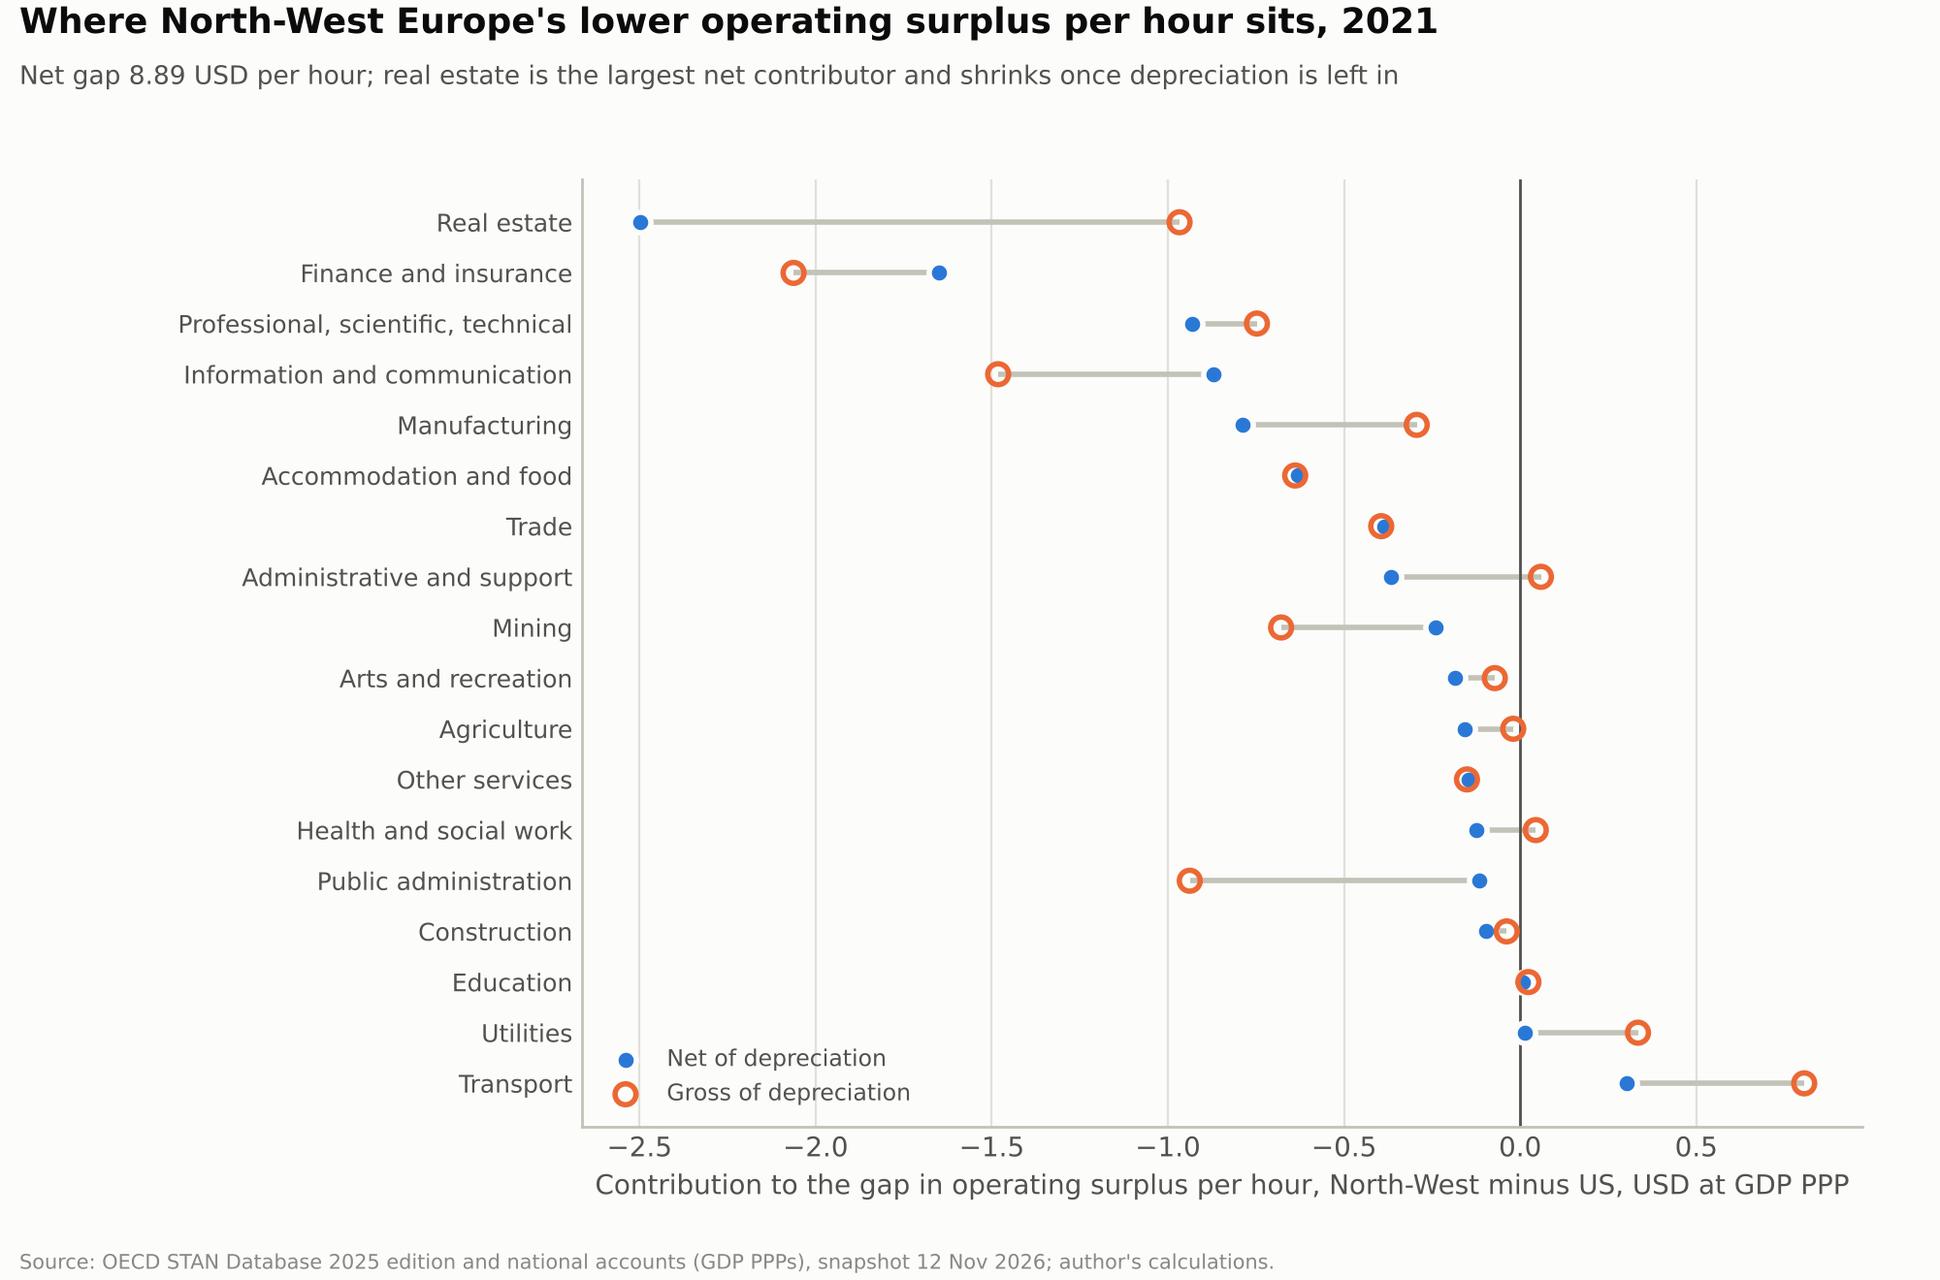
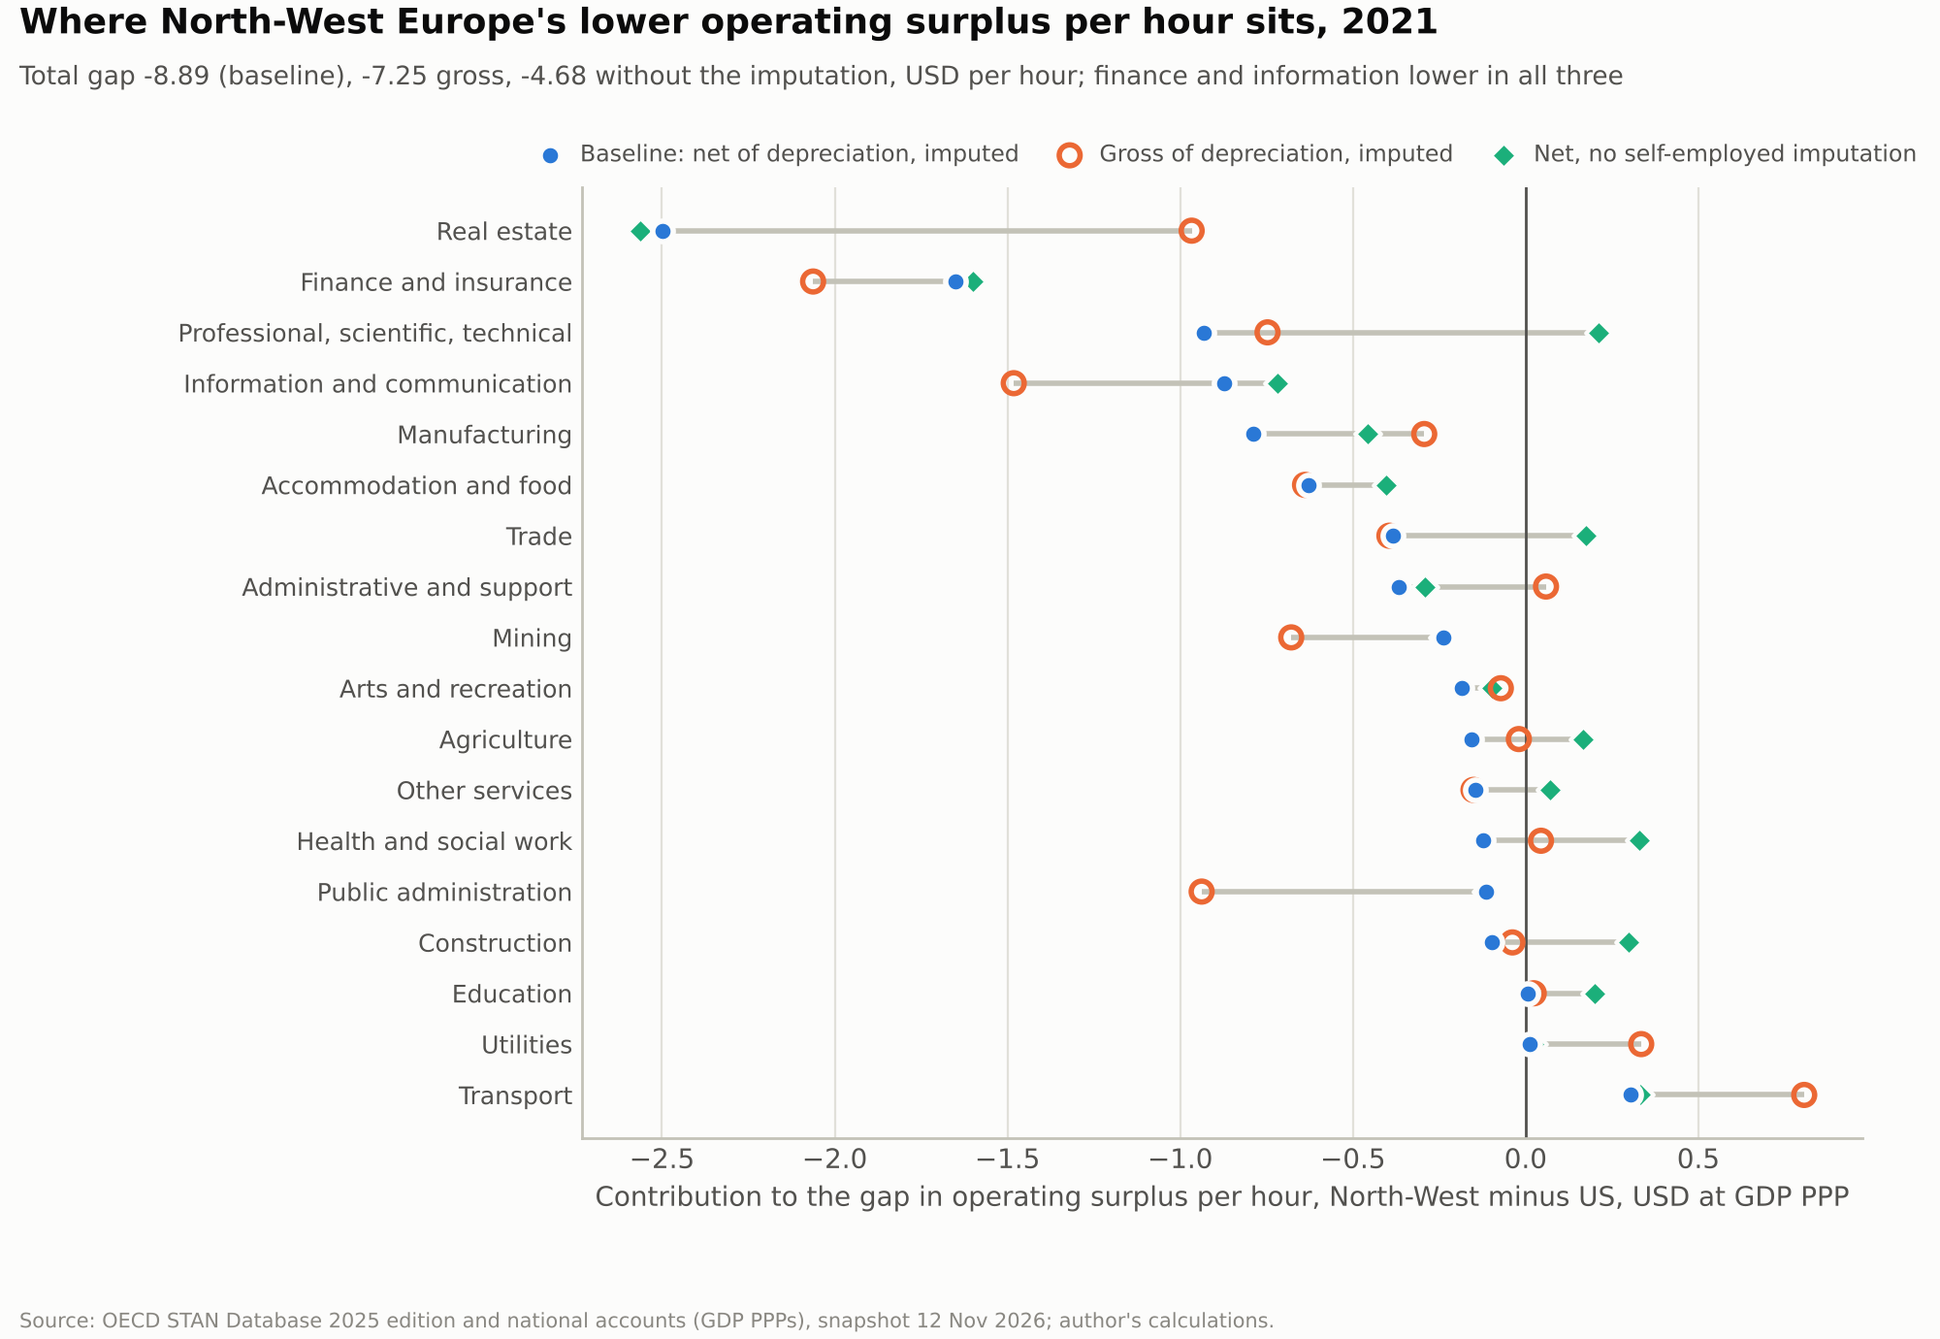
eu-us-surplus-by-industry: four accountings (net/gross, with/without the self-employment imputation)
The imputation moves 4.21 USD per hour of the gap and decides the sign of professional services, so every
industry contribution is now reported under four accountings (variants_*.csv), with self-employed hours
shares and hours per person in the summary. Figure 1 shows three of the four; a test checks that the
variants reconcile by the depreciation and imputation gaps.

diff --git a/eu-us-surplus-by-industry/analysis.py b/eu-us-surplus-by-industry/analysis.py
@@ -59,12 +59,13 @@ def col(frame: pd.DataFrame, name: str) -> pd.Series:
     return frame[name] if name in frame.columns else pd.Series(np.nan, index=frame.index)
 
 
-def accounts(c: str, y: int, acts: list[str], gross: bool = False) -> pd.DataFrame:
+def accounts(c: str, y: int, acts: list[str], gross: bool = False, impute: bool = True) -> pd.DataFrame:
     """Income-side accounts by activity, converted to US dollars at GDP PPP (millions; hours in millions).
 
     LC  = compensation of employees + imputed labour income of the self-employed (employee pay per hour)
     CFC = consumption of fixed capital
-    NR  = net operating surplus and mixed income minus the imputation (gross variant: before CFC)
+    NR  = net operating surplus and mixed income minus the imputation (gross variant: before CFC;
+          impute=False: mixed income left whole in the remainder)
     FCVA = value added at factor cost = compensation of employees + gross operating surplus and mixed income
     """
     X = P.loc[(c, y)].reindex(acts)
@@ -81,6 +82,8 @@ def accounts(c: str, y: int, acts: list[str], gross: bool = False) -> pd.DataFra
     nos = nos.where(gos.notna() | d1.isna(), 0.0)
     gos = gos.where(gos.notna() | d1.isna(), 0.0)
     imp = (d1 / sal_h * self_h).fillna(0)
+    if not impute:
+        imp = imp * 0.0
     out = pd.DataFrame({"LC": d1 + imp, "CFC": cfc, "NR": (gos if gross else nos) - imp, "FCVA": d1 + gos,
                         "H": sal_h + self_h.fillna(0), "IMP": imp, "D1": d1, "GOS": gos})
     money = ["LC", "CFC", "NR", "FCVA", "IMP", "D1", "GOS"]
@@ -88,10 +91,18 @@ def accounts(c: str, y: int, acts: list[str], gross: bool = False) -> pd.DataFra
     return out
 
 
-def group(y: int, acts: list[str], gross: bool = False) -> tuple[pd.DataFrame, pd.DataFrame]:
-    us = accounts("USA", y, acts, gross)
-    nw = sum(accounts(c, y, acts, gross).fillna(0) for c in NW)
+def group(y: int, acts: list[str], gross: bool = False, impute: bool = True) -> tuple[pd.DataFrame, pd.DataFrame]:
+    us = accounts("USA", y, acts, gross, impute)
+    nw = sum(accounts(c, y, acts, gross, impute).fillna(0) for c in NW)
     return nw, us
+
+
+def self_employed_hours(c: str, y: int, acts: list[str]) -> tuple[pd.Series, pd.Series]:
+    """Hours of the self-employed and of employees by activity (millions)."""
+    X = P.loc[(c, y)].reindex(acts)
+    sal_h, sal_ps = col(X, "SAL_H"), col(X, "SAL_PS")
+    self_h = col(X, "SELF_PS") * sal_h / sal_ps if c == "USA" else col(X, "EMP_H") - sal_h
+    return self_h.clip(lower=0).fillna(0), sal_h.fillna(0)
 
 
 def total_hours(c: str, y: int) -> float:
@@ -120,6 +131,12 @@ def main() -> None:
     say("Total hours worked, millions, 2021: NW (8 countries); US", f"{sum(total_hours(c, 2021) for c in NW):,.0f}; "
         f"{total_hours('USA', 2021):,.0f}")
     say("GDP PPP 2021, national currency per USD: " + "; ".join(NW), "; ".join(f"{PPP.loc[2021, c]:.3f}" for c in NW))
+    parts = []
+    for c in NW + ["USA"]:
+        X = P.loc[(c, 2021, "_T")]
+        parts.append(f"{c} {1000 * (X['EMP_H'] - X['SAL_H']) / (X['EMP_PS'] - X['SAL_PS']):,.0f}; "
+                     f"{1000 * X['SAL_H'] / X['SAL_PS']:,.0f}")
+    say("Hours per person per year, total economy 2021, self-employed; employees", " | ".join(parts))
 
     # ------------------------------------------------------------------ per-hour accounts
     section("Income side of an hour of factor-cost value added, USD at GDP PPP (sum of 19 sections / total hours)")
@@ -269,10 +286,50 @@ def main() -> None:
         say(f"{y} gross remainder per hour: NW; US; gap", f"{nw['NR'].sum() / hn:.1f}; {us['NR'].sum() / hu:.1f}; {g.sum():.2f}")
         say(f"{y} shares of the gross gap: J+K+M+N; real estate L; manufacturing C",
             f"{g[GROUP_JKMN].sum() / g.sum():.2f}; {g['L'] / g.sum():.2f}; {g['C'] / g.sum():.2f}")
-        pd.DataFrame({"gross_contribution": g}).to_csv(RES / f"gross_contributions_{y}.csv", float_format="%.4f")
         cf = nw["CFC"] / hn - us["CFC"] / hu
-        say(f"{y} depreciation per hour, gap NW - US: total; real estate L; manufacturing C",
-            f"{cf.sum():.2f}; {cf['L']:.2f}; {cf['C']:.2f}")
+        say(f"{y} depreciation per hour, gap NW - US: total; real estate L; manufacturing C; public administration O; J; K",
+            f"{cf.sum():.2f}; {cf['L']:.2f}; {cf['C']:.2f}; {cf['O']:.2f}; {cf['J']:.2f}; {cf['K']:.2f}")
+
+    # ------------------------------------------------------------------ four accountings
+    section("Four accountings of the gap: net or gross of depreciation, with or without the self-employment imputation")
+    for y in YEARS:
+        hn, hu = sum(total_hours(c, y) for c in NW), total_hours("USA", y)
+        nw, us = group(y, SECTIONS)
+        s_nw = sum(self_employed_hours(c, y, SECTIONS)[0] for c in NW)
+        e_nw = sum(self_employed_hours(c, y, SECTIONS)[1] for c in NW)
+        s_us, e_us = self_employed_hours("USA", y, SECTIONS)
+        say(f"{y} self-employed share of hours: NW; US | professional services M: NW; US",
+            f"{s_nw.sum() / (s_nw.sum() + e_nw.sum()):.3f}; {s_us.sum() / (s_us.sum() + e_us.sum()):.3f} | "
+            f"{s_nw['M'] / (s_nw['M'] + e_nw['M']):.3f}; {s_us['M'] / (s_us['M'] + e_us['M']):.3f}")
+        say(f"{y} imputed labour income of the self-employed per hour, USD: NW; US; gap",
+            f"{nw['IMP'].sum() / hn:.2f}; {us['IMP'].sum() / hu:.2f}; {nw['IMP'].sum() / hn - us['IMP'].sum() / hu:.2f}")
+        cols = {}
+        for gross in (False, True):
+            for impute in (True, False):
+                a_n, a_u = group(y, SECTIONS, gross, impute)
+                key = f"{'gross' if gross else 'net'}_{'imputed' if impute else 'unimputed'}"
+                cols[key] = a_n["NR"] / hn - a_u["NR"] / hu
+        v = pd.DataFrame(cols)
+        v.insert(0, "name", [NAMES[x] for x in SECTIONS])
+        v.to_csv(RES / f"variants_{y}.csv", float_format="%.4f")
+        for key in ["net_imputed", "net_unimputed", "gross_imputed", "gross_unimputed"]:
+            g = v[key]
+            G = g.sum()
+            say(f"{y} {key}: gap; shares J+K+M+N; J+K; L; C; all other | USD per hour J; K; M; N; L; C",
+                f"{G:.2f}; {g[GROUP_JKMN].sum() / G:.2f}; {g[['J', 'K']].sum() / G:.2f}; {g['L'] / G:.2f}; "
+                f"{g['C'] / G:.2f}; {1 - g[GROUP_JKMN + ['L', 'C']].sum() / G:.2f} | {g['J']:.2f}; {g['K']:.2f}; "
+                f"{g['M']:.2f}; {g['N']:.2f}; {g['L']:.2f}; {g['C']:.2f}")
+    for c in NW:
+        s_c, e_c = self_employed_hours(c, 2021, SECTIONS)
+        LINES.append(f"2021 self-employed share of hours {c}: {s_c.sum() / (s_c.sum() + e_c.sum()):.3f}")
+    nw0, us0 = group(2021, SECTIONS, impute=False)
+    ps_n, ps_u = nw0["NR"] / nw0["FCVA"], us0["NR"] / us0["FCVA"]
+    market = [x for x in SECTIONS if x not in ("O", "P", "Q", "T")]
+    say("2021 profit share without the imputation: aggregate NW; US",
+        f"{nw0['NR'].sum() / nw0['FCVA'].sum():.3f}; {us0['NR'].sum() / us0['FCVA'].sum():.3f}")
+    say("2021 market sections where the NW profit share without the imputation is lower than the US",
+        f"{sum(ps_n[market] < ps_u[market])} of 15 ({', '.join(x for x in market if ps_n[x] < ps_u[x])})")
+    say("2021 profit share without the imputation, M: NW; US", f"{ps_n['M']:.3f}; {ps_u['M']:.3f}")
 
     (RES / "analysis_summary.txt").write_text("\n".join(LINES).strip() + "\n", encoding="utf-8")
     print("\n".join(LINES))

diff --git a/eu-us-surplus-by-industry/figures.py b/eu-us-surplus-by-industry/figures.py
@@ -55,27 +55,32 @@ def finish(fig, name: str, title: str, subtitle: str, source: str = SOURCE) -> N
 
 
 def fig1() -> None:
-    t = pd.read_csv(RES / "contributions_2021.csv", index_col=0)
-    g = pd.read_csv(RES / "gross_contributions_2021.csv", index_col=0)["gross_contribution"]
+    t = pd.read_csv(RES / "variants_2021.csv", index_col=0)
+    keys = ["net_imputed", "gross_imputed", "net_unimputed"]
+    totals = t[keys].sum()
     t = t.drop(index=[s for s in ("T",) if s in t.index])
-    t["gross"] = g.reindex(t.index)
-    t = t.sort_values("contribution", ascending=False).reset_index()
-    fig, ax = plt.subplots(figsize=(10, 6.6))
-    fig.subplots_adjust(left=0.3, right=0.96, top=0.86, bottom=0.12)
+    t = t.sort_values("net_imputed", ascending=False).reset_index()
+    fig, ax = plt.subplots(figsize=(10, 6.9))
+    fig.subplots_adjust(left=0.3, right=0.96, top=0.86, bottom=0.15)
     y = np.arange(len(t))
     for i, r in t.iterrows():
-        ax.hlines(i, min(r.contribution, r.gross), max(r.contribution, r.gross), color=BASE, linewidth=2)
-    ax.scatter(t.contribution, y, s=58, color=SLOTS[0], edgecolor=SURFACE, linewidth=2, zorder=3,
-               label="Net of depreciation")
-    ax.scatter(t.gross, y, s=60, facecolor="none", edgecolor=SLOTS[1], linewidth=2, zorder=4,
-               label="Gross of depreciation")
+        ax.hlines(i, min(r[k] for k in keys), max(r[k] for k in keys), color=BASE, linewidth=2)
+    ax.scatter(t.net_unimputed, y, s=46, marker="D", color=SLOTS[2], edgecolor=SURFACE, linewidth=1.5, zorder=3,
+               label="Net, no self-employed imputation")
+    ax.scatter(t.gross_imputed, y, s=60, facecolor="none", edgecolor=SLOTS[1], linewidth=2, zorder=4,
+               label="Gross of depreciation, imputed")
+    ax.scatter(t.net_imputed, y, s=58, color=SLOTS[0], edgecolor=SURFACE, linewidth=2, zorder=5,
+               label="Baseline: net of depreciation, imputed")
     ax.axvline(0, color=INK2, linewidth=1)
     ax.set_yticks(y, t.name, fontsize=9)
     ax.set_xlabel("Contribution to the gap in operating surplus per hour, North-West minus US, USD at GDP PPP")
-    ax.legend(loc="lower left", fontsize=8.5)
+    handles, labels = ax.get_legend_handles_labels()
+    ax.legend(handles[::-1], labels[::-1], loc="lower center", bbox_to_anchor=(0.5, 1.0), ncol=3, fontsize=8.5,
+              frameon=False, handletextpad=0.3, columnspacing=1.2)
     tidy(ax, "x")
     finish(fig, "fig1_gap_by_industry_2021", "Where North-West Europe's lower operating surplus per hour sits, 2021",
-           "Net gap 8.89 USD per hour; real estate is the largest net contributor and shrinks once depreciation is left in")
+           f"Total gap {totals.net_imputed:.2f} (baseline), {totals.gross_imputed:.2f} gross, "
+           f"{totals.net_unimputed:.2f} without the imputation, USD per hour; finance and information lower in all three")
 
 
 def fig2() -> None:

diff --git a/eu-us-surplus-by-industry/tests/test_identities.py b/eu-us-surplus-by-industry/tests/test_identities.py
@@ -54,3 +54,18 @@ def test_subindustries_add_up_for_services() -> None:
 def test_country_contributions_add_up() -> None:
     c = pd.read_csv(RES / "countries_2021.csv", index_col=0)
     assert np.allclose(c[["L", "K", "J_M_N", "C", "other"]].sum(axis=1), c.gap, atol=1e-4)
+
+
+def test_four_accountings_reconcile() -> None:
+    for y in analysis.YEARS:
+        v = pd.read_csv(RES / f"variants_{y}.csv", index_col=0)
+        hn = sum(analysis.total_hours(c, y) for c in analysis.NW)
+        hu = analysis.total_hours("USA", y)
+        nw, us = analysis.group(y, analysis.SECTIONS)
+        imp_gap = nw["IMP"] / hn - us["IMP"] / hu
+        cfc_gap = nw["CFC"].fillna(0) / hn - us["CFC"].fillna(0) / hu
+        assert np.allclose(v.net_unimputed - v.net_imputed, imp_gap.reindex(v.index), atol=1e-3)
+        assert np.allclose(v.gross_imputed - v.net_imputed, cfc_gap.reindex(v.index), atol=0.02)
+        assert np.allclose(v.gross_unimputed - v.gross_imputed, imp_gap.reindex(v.index), atol=1e-3)
+        t = pd.read_csv(RES / f"contributions_{y}.csv", index_col=0)
+        assert np.allclose(v.net_imputed, t.contribution, atol=1e-3)

diff --git a/eu-us-surplus-by-industry/README.md b/eu-us-surplus-by-industry/README.md
@@ -2,7 +2,7 @@
 
 Computational companion to a follow-up of the Medium series *Europe's Low-Wage Path, Measured*. Part 1 of the series found that an hour of work in eight North-West European countries produces slightly less value added than an hour in the United States, pays labour slightly more and leaves about half the net operating surplus. It stated a conjecture about where that missing surplus sits: in information and communication, finance and professional services, with manufacturing contributing little or the opposite. This repository tests it.
 
-The method splits the gap in net operating surplus per hour of the whole economy into the contributions of the 19 ISIC Rev. 4 sections, splits each contribution into an industry-structure part and a within-industry margin part, repeats the exercise on a gross basis (before depreciation), computes currency-free profit shares by industry, opens up information and communication, finance, professional services, manufacturing and real estate one level down, and repeats the industry split for each of the eight countries.
+The method splits the gap in net operating surplus per hour of the whole economy into the contributions of the 19 ISIC Rev. 4 sections, splits each contribution into an industry-structure part and a within-industry margin part, repeats the exercise under four accountings (net or gross of depreciation, with or without an imputed wage for the self-employed), computes currency-free profit shares by industry, opens up information and communication, finance, professional services, manufacturing and real estate one level down, and repeats the industry split for each of the eight countries.
 
 ## Run
 
@@ -38,21 +38,22 @@ OECD data are reused under the OECD terms and conditions; they are not relicense
 - **Contribution of industry i to the gap** = NR_i(NW) ÷ total hours(NW) − NR_i(US) ÷ total hours(US), in US dollars per hour worked in the whole economy. The 19 contributions add up to the gap.
 - **Structure and margin.** With a_i the industry's hours as a share of total hours and r_i its net remainder per hour worked in the industry, the contribution a_i(NW) r_i(NW) − a_i(US) r_i(US) = (a_NW − a_US)(r_NW + r_US)/2 [structure] + (r_NW − r_US)(a_NW + a_US)/2 [margin]. The split is exact.
 - **Profit share** = NR ÷ FCVA, within an industry or for the economy. It needs no exchange rate. The gap in the aggregate share is split into within-industry and between-industry parts with average value-added weights and average shares.
-- **Gross basis** = the same decomposition with depreciation left in (gross operating surplus and mixed income − the imputation).
+- **Four accountings.** The baseline is net of depreciation and with the imputation, as in Part 1. The other three leave depreciation in (gross operating surplus and mixed income − the imputation), leave mixed income whole (net operating surplus and mixed income, no imputation), or both. Moving from one to another changes each industry's contribution by exactly its gap in depreciation per hour or in imputed income per hour; the tests check this.
 - **Sub-industries** (publishing and broadcasting, telecoms, IT services; banks, insurance, auxiliary finance; legal-accounting-consulting, R&D, advertising; pharmaceuticals, electronics, motor vehicles) are shown as net operating surplus and mixed income per hour of the whole economy, *without* the self-employment imputation, because US hours for the finance sub-industries are not usable in STAN 2025.
 - **Owner-occupied housing** is the imputed rent that owner-occupiers pay themselves (`L68A`). It is compared on a gross basis, because depreciation is not published for it separately. Germany publishes value added but not gross surplus for `L68A`; its value added is used, which overstates the surplus by the small compensation and taxes in the industry.
 
 ## Results files
 
 - `contributions_2019.csv`, `contributions_2021.csv`: per section, the contribution, its share of the gap, the structure and margin parts, hours shares, net remainder per hour within the industry, profit shares and value-added shares, NW and US.
-- `gross_contributions_2019.csv`, `gross_contributions_2021.csv`: the gross-basis contributions.
+- `variants_2019.csv`, `variants_2021.csv`: the contribution of each section under the four accountings.
 - `owner_occupied_housing_2021.csv`, `subindustries_2021.csv`, `countries_2021.csv`: the inputs to figures 3 and 4.
 
 ## Caveats
 
 - GDP PPPs convert the whole economy at one rate. An industry whose prices are relatively higher in one economy (finance, telecoms, housing) gets a larger share of value added there at the same volume of output. The profit shares in `contributions_*.csv` avoid the conversion and are the check on that.
-- The imputation assumes a self-employed hour earns what an employee hour earns in the same industry. Where the self-employed are numerous and earn less than employees (professional services in some countries, agriculture), it moves income from the remainder into labour and can make the remainder negative.
-- The US self-employed hours assume the self-employed work as many hours per person as employees.
+- The imputation assumes a self-employed hour earns what an employee hour earns in the same industry. It is large: the self-employed work 14.7% of hours in the North-West against 6.4% in the US (2021), and in several European countries they record far more hours per person than employees (France 2,380 against 1,359). Where the self-employed earn less per hour than employees, it moves too much income from the remainder into labour and can make the remainder negative, as in professional services. Without it the North-West's gap falls from 8.89 to 4.68 dollars per hour, which is why every result is also shown unimputed.
+- In the US national accounts, owners of incorporated businesses are employees of those businesses: their salaries are compensation and the rest is corporate profit. Only unincorporated owners (sole proprietors and partners) earn mixed income. The imputation therefore covers a narrower group in the US than in countries where professionals work unincorporated.
+- The US self-employed hours assume the self-employed work as many hours per person as employees. At the total-economy level, where STAN has both, they worked 1,741 hours per person in 2021 against 1,676 for employees, so the US imputation is about 4% too small.
 - Section T has a small negative remainder in the North-West sum (−0.03 dollars per hour in 2021), from the imputation for self-employed domestic workers in countries that record them; there is no T in the US data.
 - Imputed rent on owner-occupied housing is a national-accounts construction, not a cash profit. It is part of operating surplus in both economies and is shown separately so that it can be left out.
 
